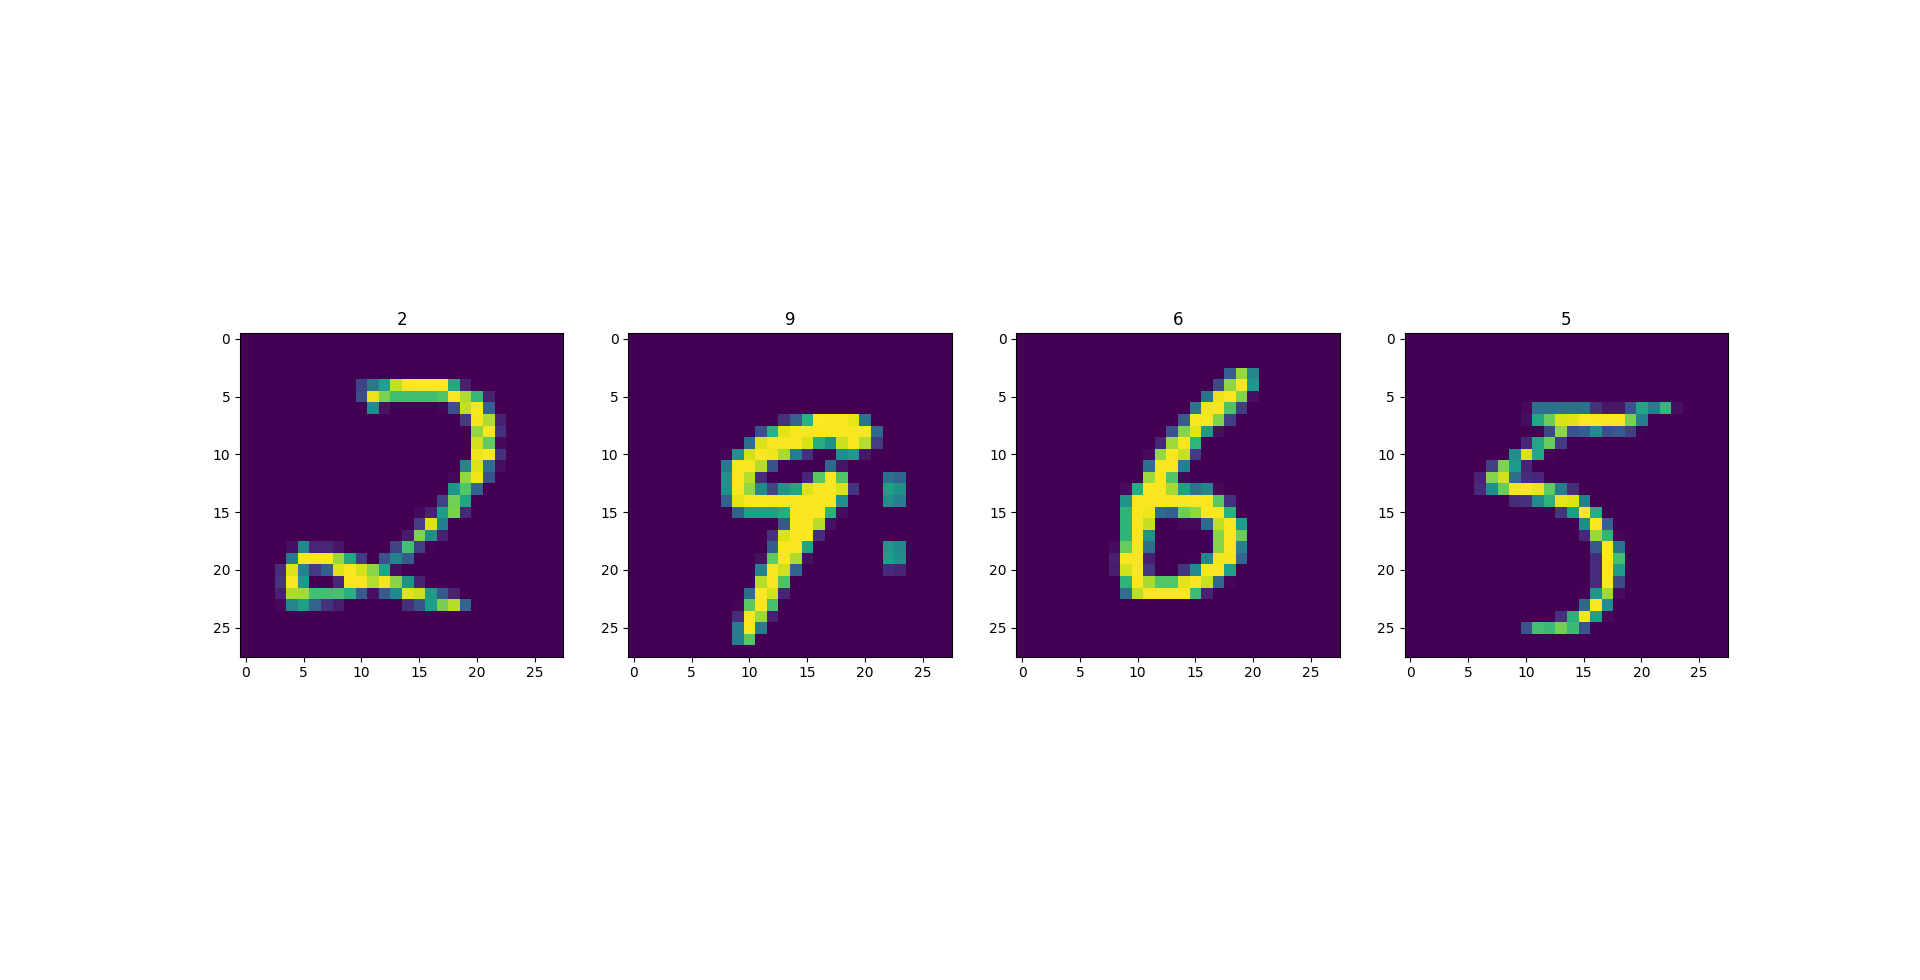
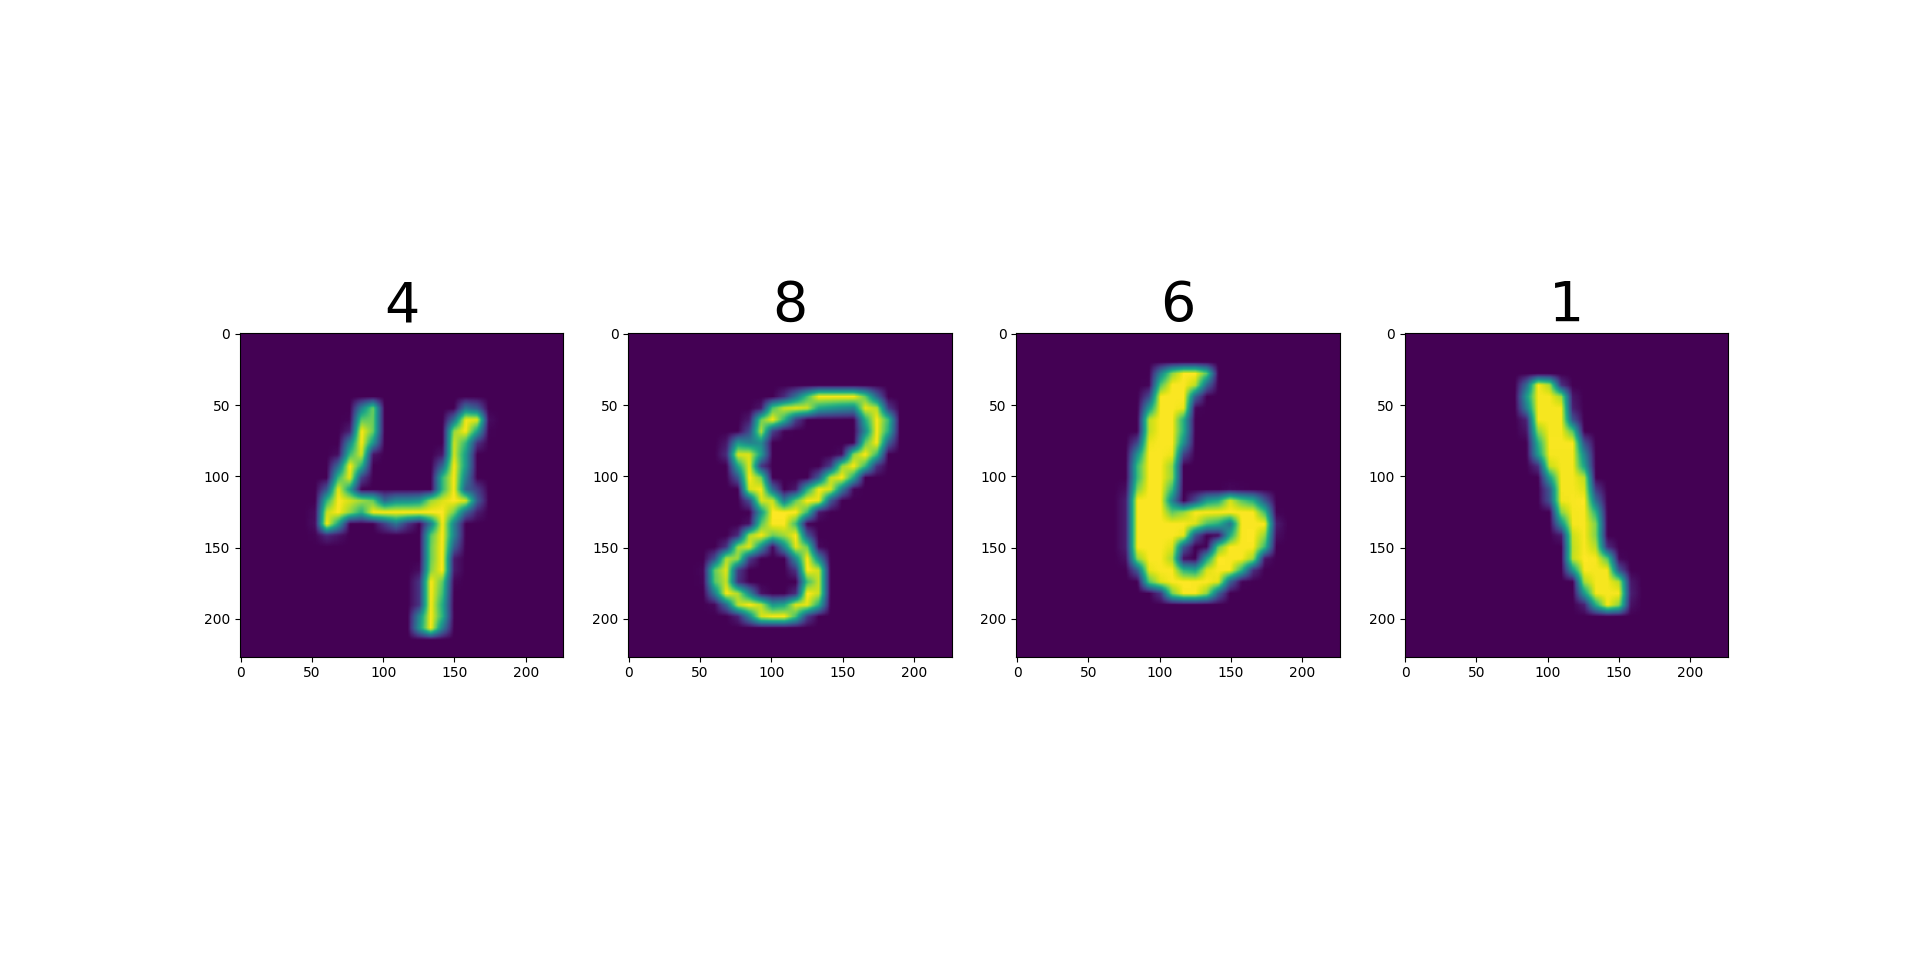
Fixed Training Size Errors

diff --git a/ClassificationModels/dataset/MNIST.py b/ClassificationModels/dataset/MNIST.py
@@ -4,17 +4,17 @@ from torchvision.transforms import ToTensor, Normalize, Compose, Resize
 from torchvision.datasets import MNIST
 
 import matplotlib.pyplot as plt
-from PIL import Image
 
 
 class MNISTDataset(Dataset):
-    def __init__(self, train: bool = True, output_size=(227,227)) -> None:
+    def __init__(self, train: bool = True, output_size=(227, 227)) -> None:
         super(MNISTDataset, self).__init__()
         self.mnist = MNIST(
             root="data",
             train=train,
             download=True,
-            transform=Compose([Resize(output_size), ToTensor(), Normalize(mean=(0.5,), std=(0.5,))]),
+            transform=Compose([Resize(output_size), ToTensor(),
+                              Normalize(mean=(0.5,), std=(0.5,))]),
         )
 
     def __len__(self):
@@ -41,6 +41,6 @@ if __name__ == "__main__":
         print(images[i].shape, labels[i].item())
         fig.add_subplot(rows, cols, i + 1)
         plt.imshow(images[i].squeeze())
-        plt.title(labels[i].item())
+        plt.title(labels[i].item(), size=40)
 
     plt.show()

diff --git a/ClassificationModels/models/AlexNet.py b/ClassificationModels/models/AlexNet.py
@@ -5,7 +5,16 @@ from torchsummary import summary
 
 
 class AlexNetBlock(nn.Module):
-    def __init__(self, in_channels, out_channels, kernel_size, stride, padding, pool_and_norm: bool = True) -> None:
+    def __init__(
+        self,
+        in_channels,
+        out_channels,
+        kernel_size,
+        stride,
+        padding,
+        pool_and_norm: bool = True
+    ) -> None:
+
         super(AlexNetBlock, self).__init__()
         self.conv_layer = nn.Conv2d(
             in_channels, out_channels, kernel_size, stride, padding)

diff --git a/ClassificationModels/dataset/CIFAR.py b/ClassificationModels/dataset/CIFAR.py
@@ -19,7 +19,8 @@ class CIFARDataset(Dataset):
         )
 
     def __len__(self):
-        return len(self.cifar)
+        return 1000
+        # return len(self.cifar)
 
     def __getitem__(self, index):
         img, label = self.cifar[index]

diff --git a/ClassificationModels/main.py b/ClassificationModels/main.py
@@ -13,7 +13,7 @@ from tqdm import tqdm
 
 if __name__ == "__main__":
     INPUT_SIZE = (227, 227)
-    BATCH_SIZE = 8
+    BATCH_SIZE = 16
     IN_CHANNELS = 3
     NUM_CLASSES = 10
     LEARNING_RATE = 0.01
